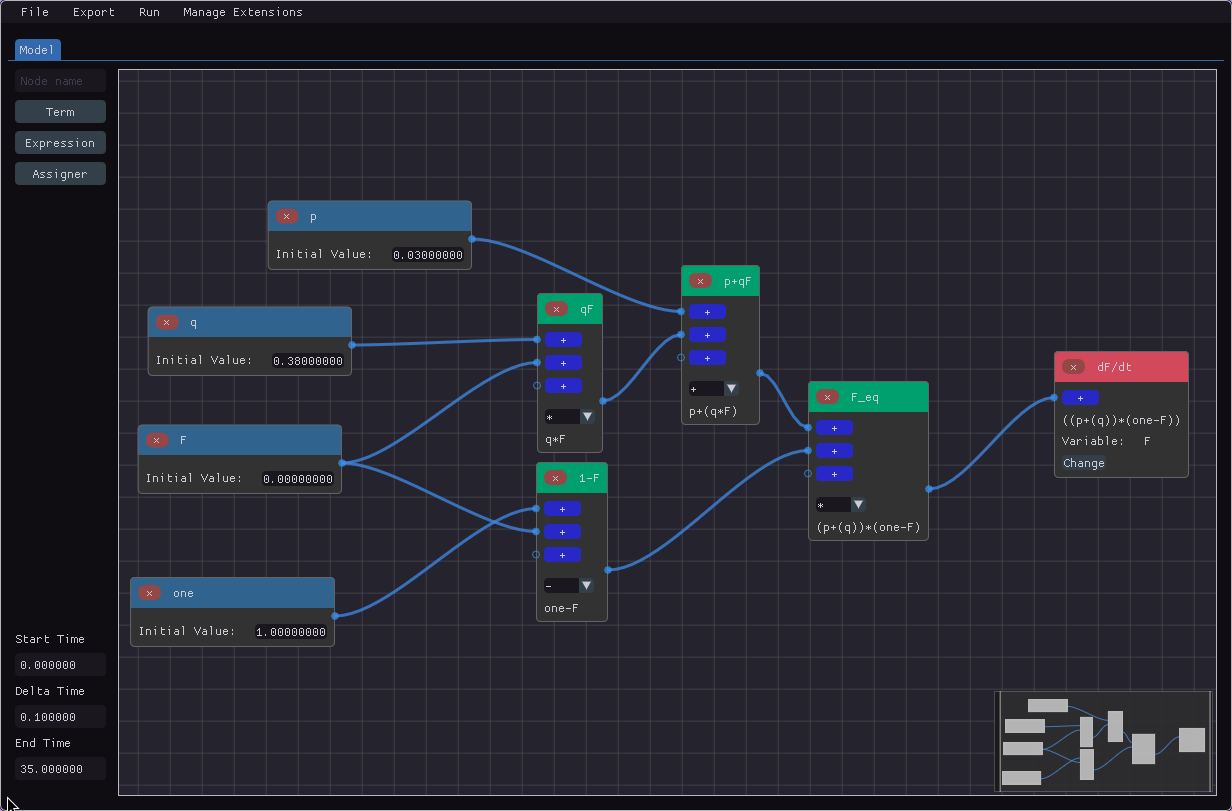
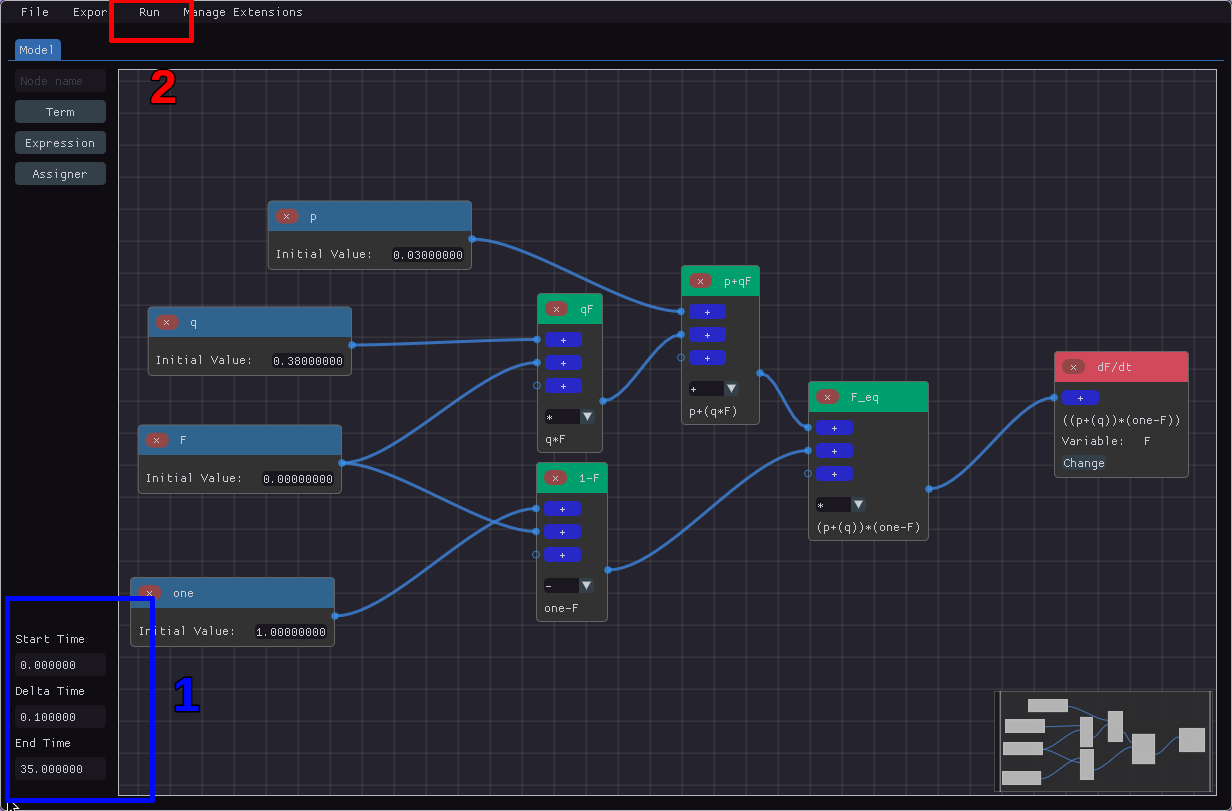
circular botões na última figura de uso do software

Changed region(s): [[0.0, 0.709, 0.1234, 1.0], [0.0617, 0.0, 0.1851, 0.1541], [0.1234, 0.8323, 0.1542, 0.894]]

diff --git a/ufsj-abntex2.tex b/ufsj-abntex2.tex
@@ -1097,7 +1097,7 @@ Finalmente, as Figuras \ref{fig:modelo-final} e \ref{fig:resultado} apresentam, 
 \begin{figure}[h]
     \centering
     \includegraphics[width=\textwidth]{imgs/ode-designer/passo-a-passo/modelo-final.png} 
-    \caption{O modelo final construído para a Equação \ref{eq:bass}.}
+    \caption{O modelo final construído para a Equação \ref{eq:bass}. Destacado como `1' estão os itens que controlam os tempos das simulações, que foram alterados para $0.0$ (tempo inicial), $0.1$ (tempo delta) e $35.0$ (tempo final). Descatado como `2' está o botão para realizar a execução e simulação do programa.}
     \label{fig:modelo-final}
 \end{figure}
 

diff --git a/TODO.md b/TODO.md
@@ -11,35 +11,6 @@
         - Sugestão de melhorias;
 
 - Baseados nas sugestões da banca:
-    - [x] Adicionar nome do software antes de apresentar o quadro comparativo;
-    - [x] Refs:
-        - [x] Usar as palavras "apêndice", "figura", "tabela" e "seção" antes de qualquer ref do tipo;
-        - [x] Capítulo e Seção capitalizados (?);
-    - [x] Substituir as palavras "imagem" por "figura";
-    - [x] Alterar "mostrar que a resposta da questão anterior é sim" por "investigar se a resposta é ..." no cap 1;
-    - [x] Em 2.4, alterar "o software irá ..." por "o software pretende ..." e exemplificar como o software pretende facilitar as coisas que diz;
-    - Telas para cada software citado (?);
-    - [x] Explicar "editores baseados em nós" na 2.2, entrando em detalhes sobre as nomenclaturas "nó" e "pino";
-    - [x] Referências quebradas em 4.1.1 e 2.4;
-    - [x] Erros gramaticais & CIA:
-        - [x] aprensentado
-        - num -> em um
-            - Na realidade, "num" e "numa" são completamente formais. Referência: https://www.dicio.com.br/num-ou-em-um/
-        - [x] individiualmente
-        - [x] dimiuindo
-        - [x] distriuição
-        - [x] reprensentações
-        - [x] (3.3) ocorre -> ocorrem
-        - [x] (2.4) "afinidade"para (falta espaço, tipo de aspas errado)
-        - [x] (1) ponto final no último item do itemize;
-        - [x] ciêntífica
-        - [x] (4.1) dado -> dadas
-        - [x] (4.1.1) Isto demonstra expressões (falta o 'que')
-        - [x] carregemanto
-        - [x] igura
-        - [x] (5.4) marcado -> marcador
-        - [x] (5.4) devido a -> devido à
-        - [x] (5.4) figuras 22 e (faltou o 23)
-    - [x] Incluir imagem dos downloads de instaladores e executáveis portáteis do Krita;
-    - [x] Link do GitHub do software;
-    - [x] "How To" do software, transformando a EDO do modelo HP ou SIR na representação do software;
+    - [x] Circular "Run" e "Tempos" na última imagem do passo-a-passo;
+    - Substituir itemizes da expressão por uma imagem como a do expr-tree.png;
+    - Escrever sobre a corretude do software no terceiro parágrafo da conclusão;
